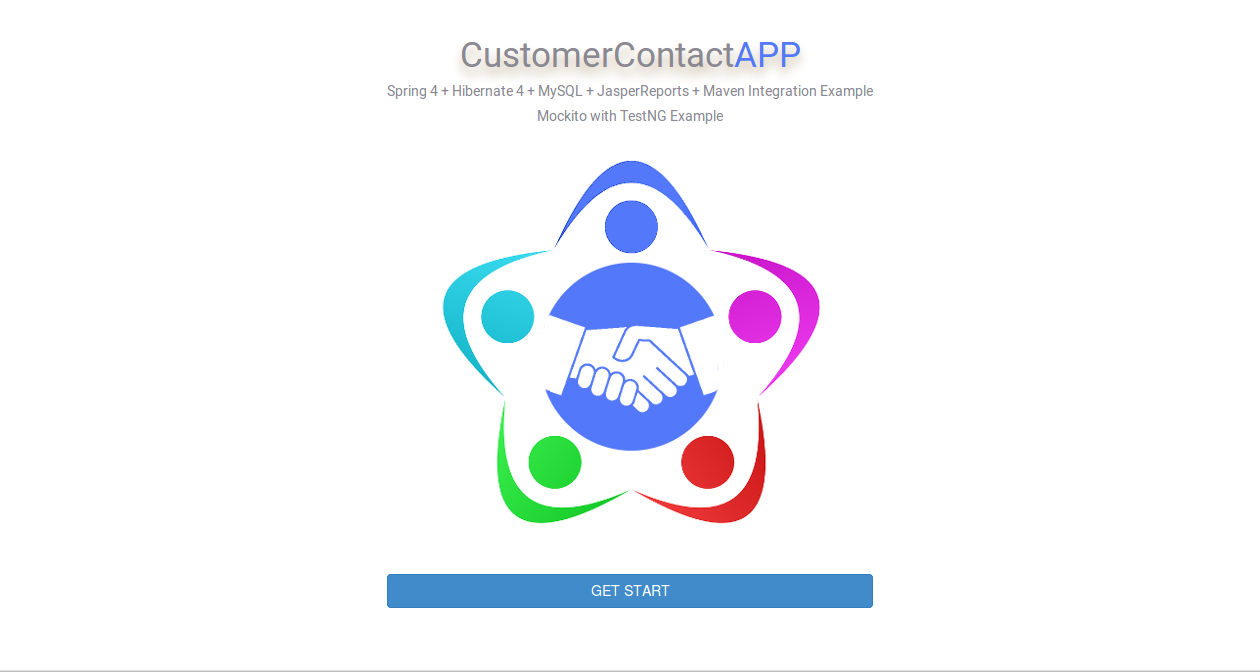
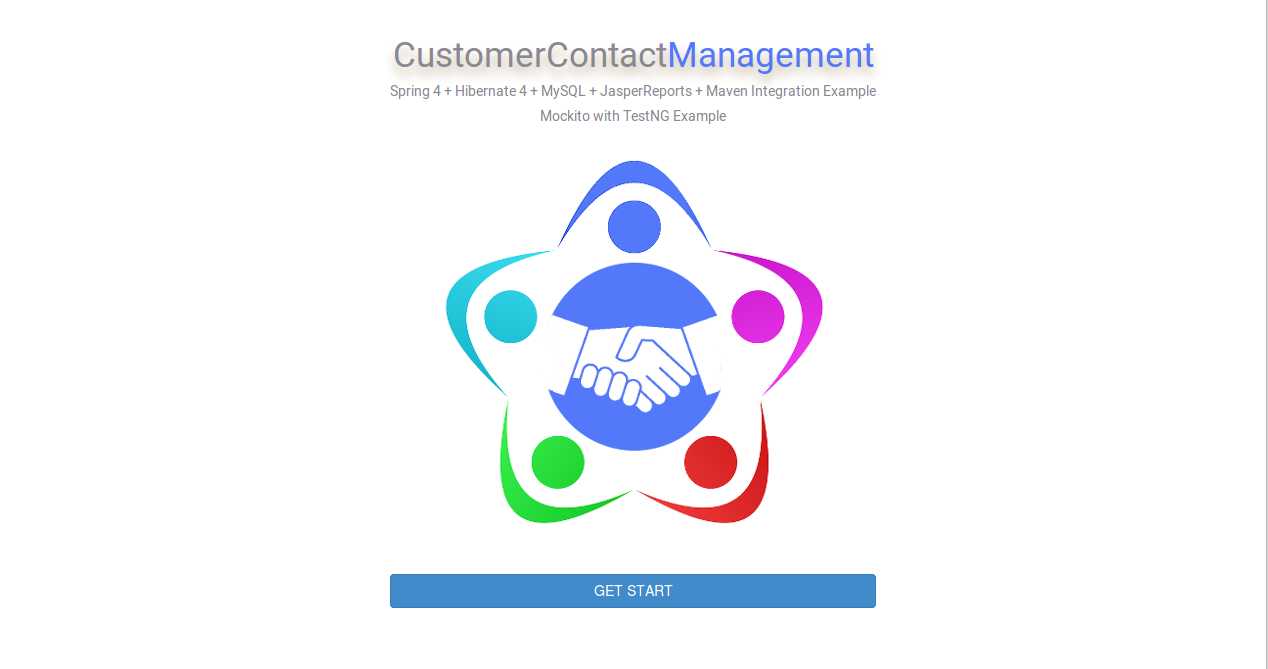
Modifying '.jsp' files.

diff --git a/README.md b/README.md
@@ -1,9 +1,9 @@
-CustomerContactApp-TestingExample
+CustomerContactManagement-TestingExample
 =================================
 
 #### Implementation Stack:
 
-* Spring  4.3.4
+* Spring  4.3.18
 * Hibernate 4.3.6.Final
 * JasperReports 6.5.1
 * MySQL 5.1.31
